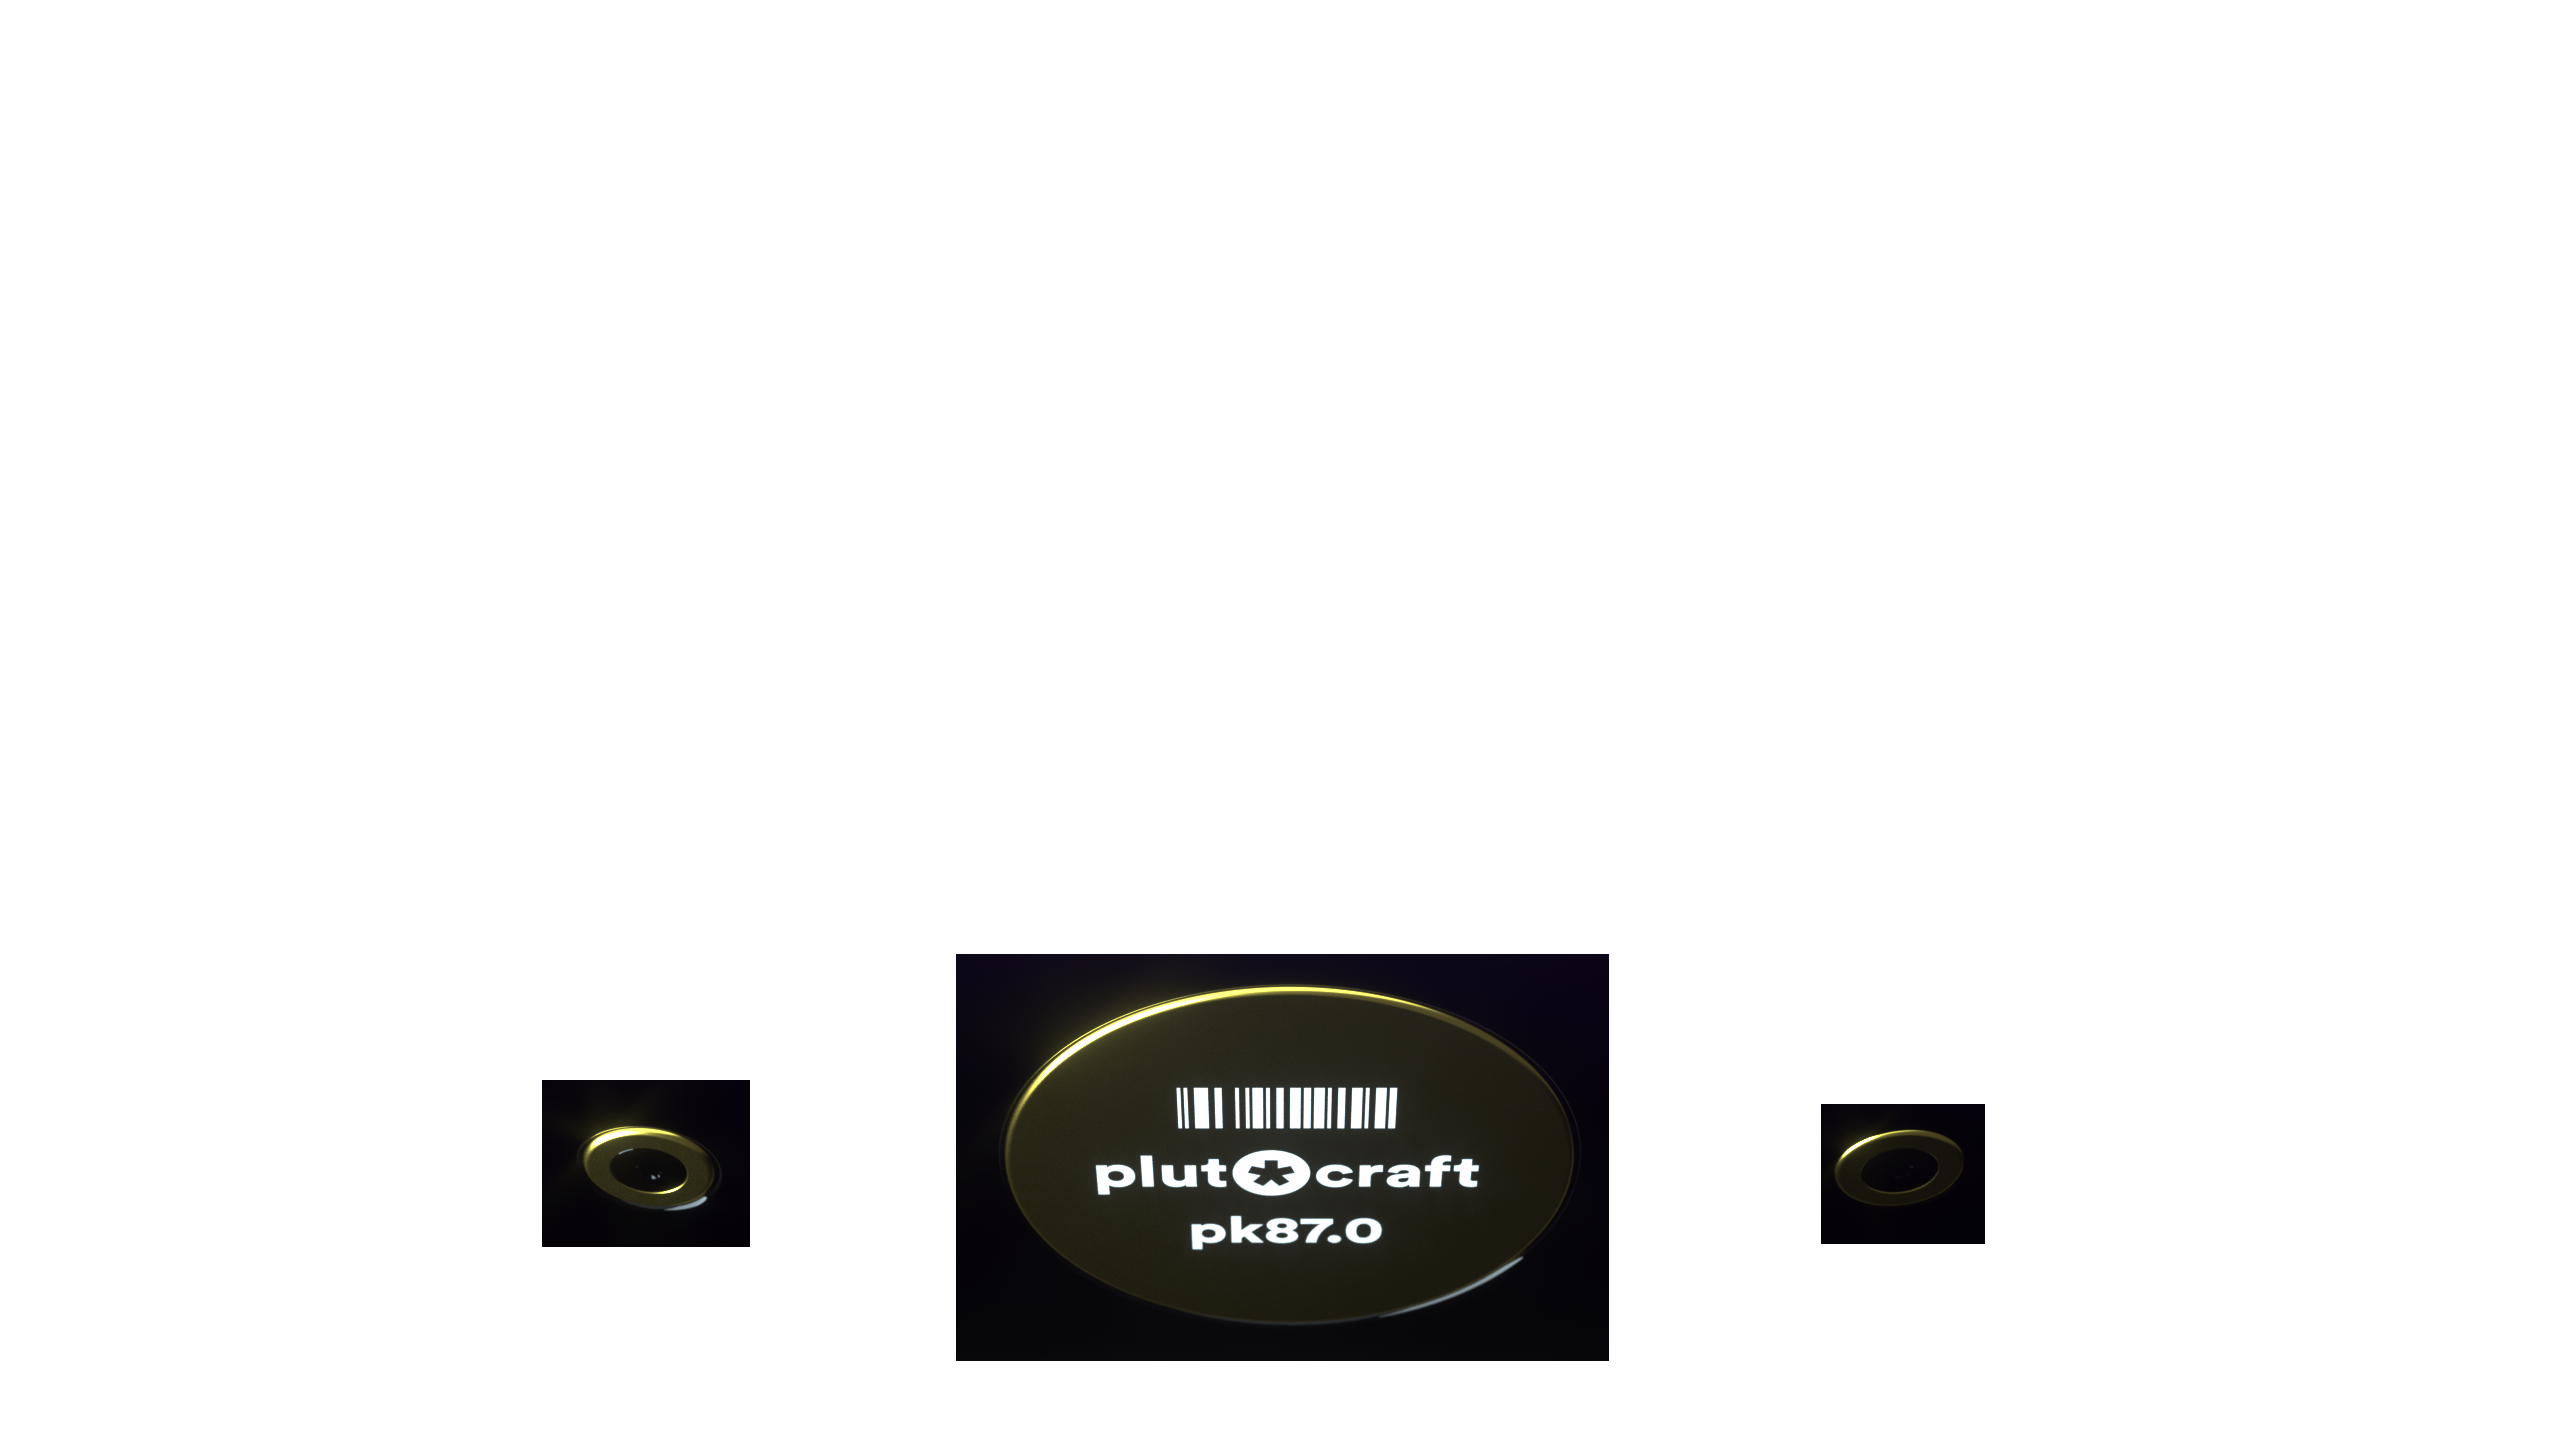
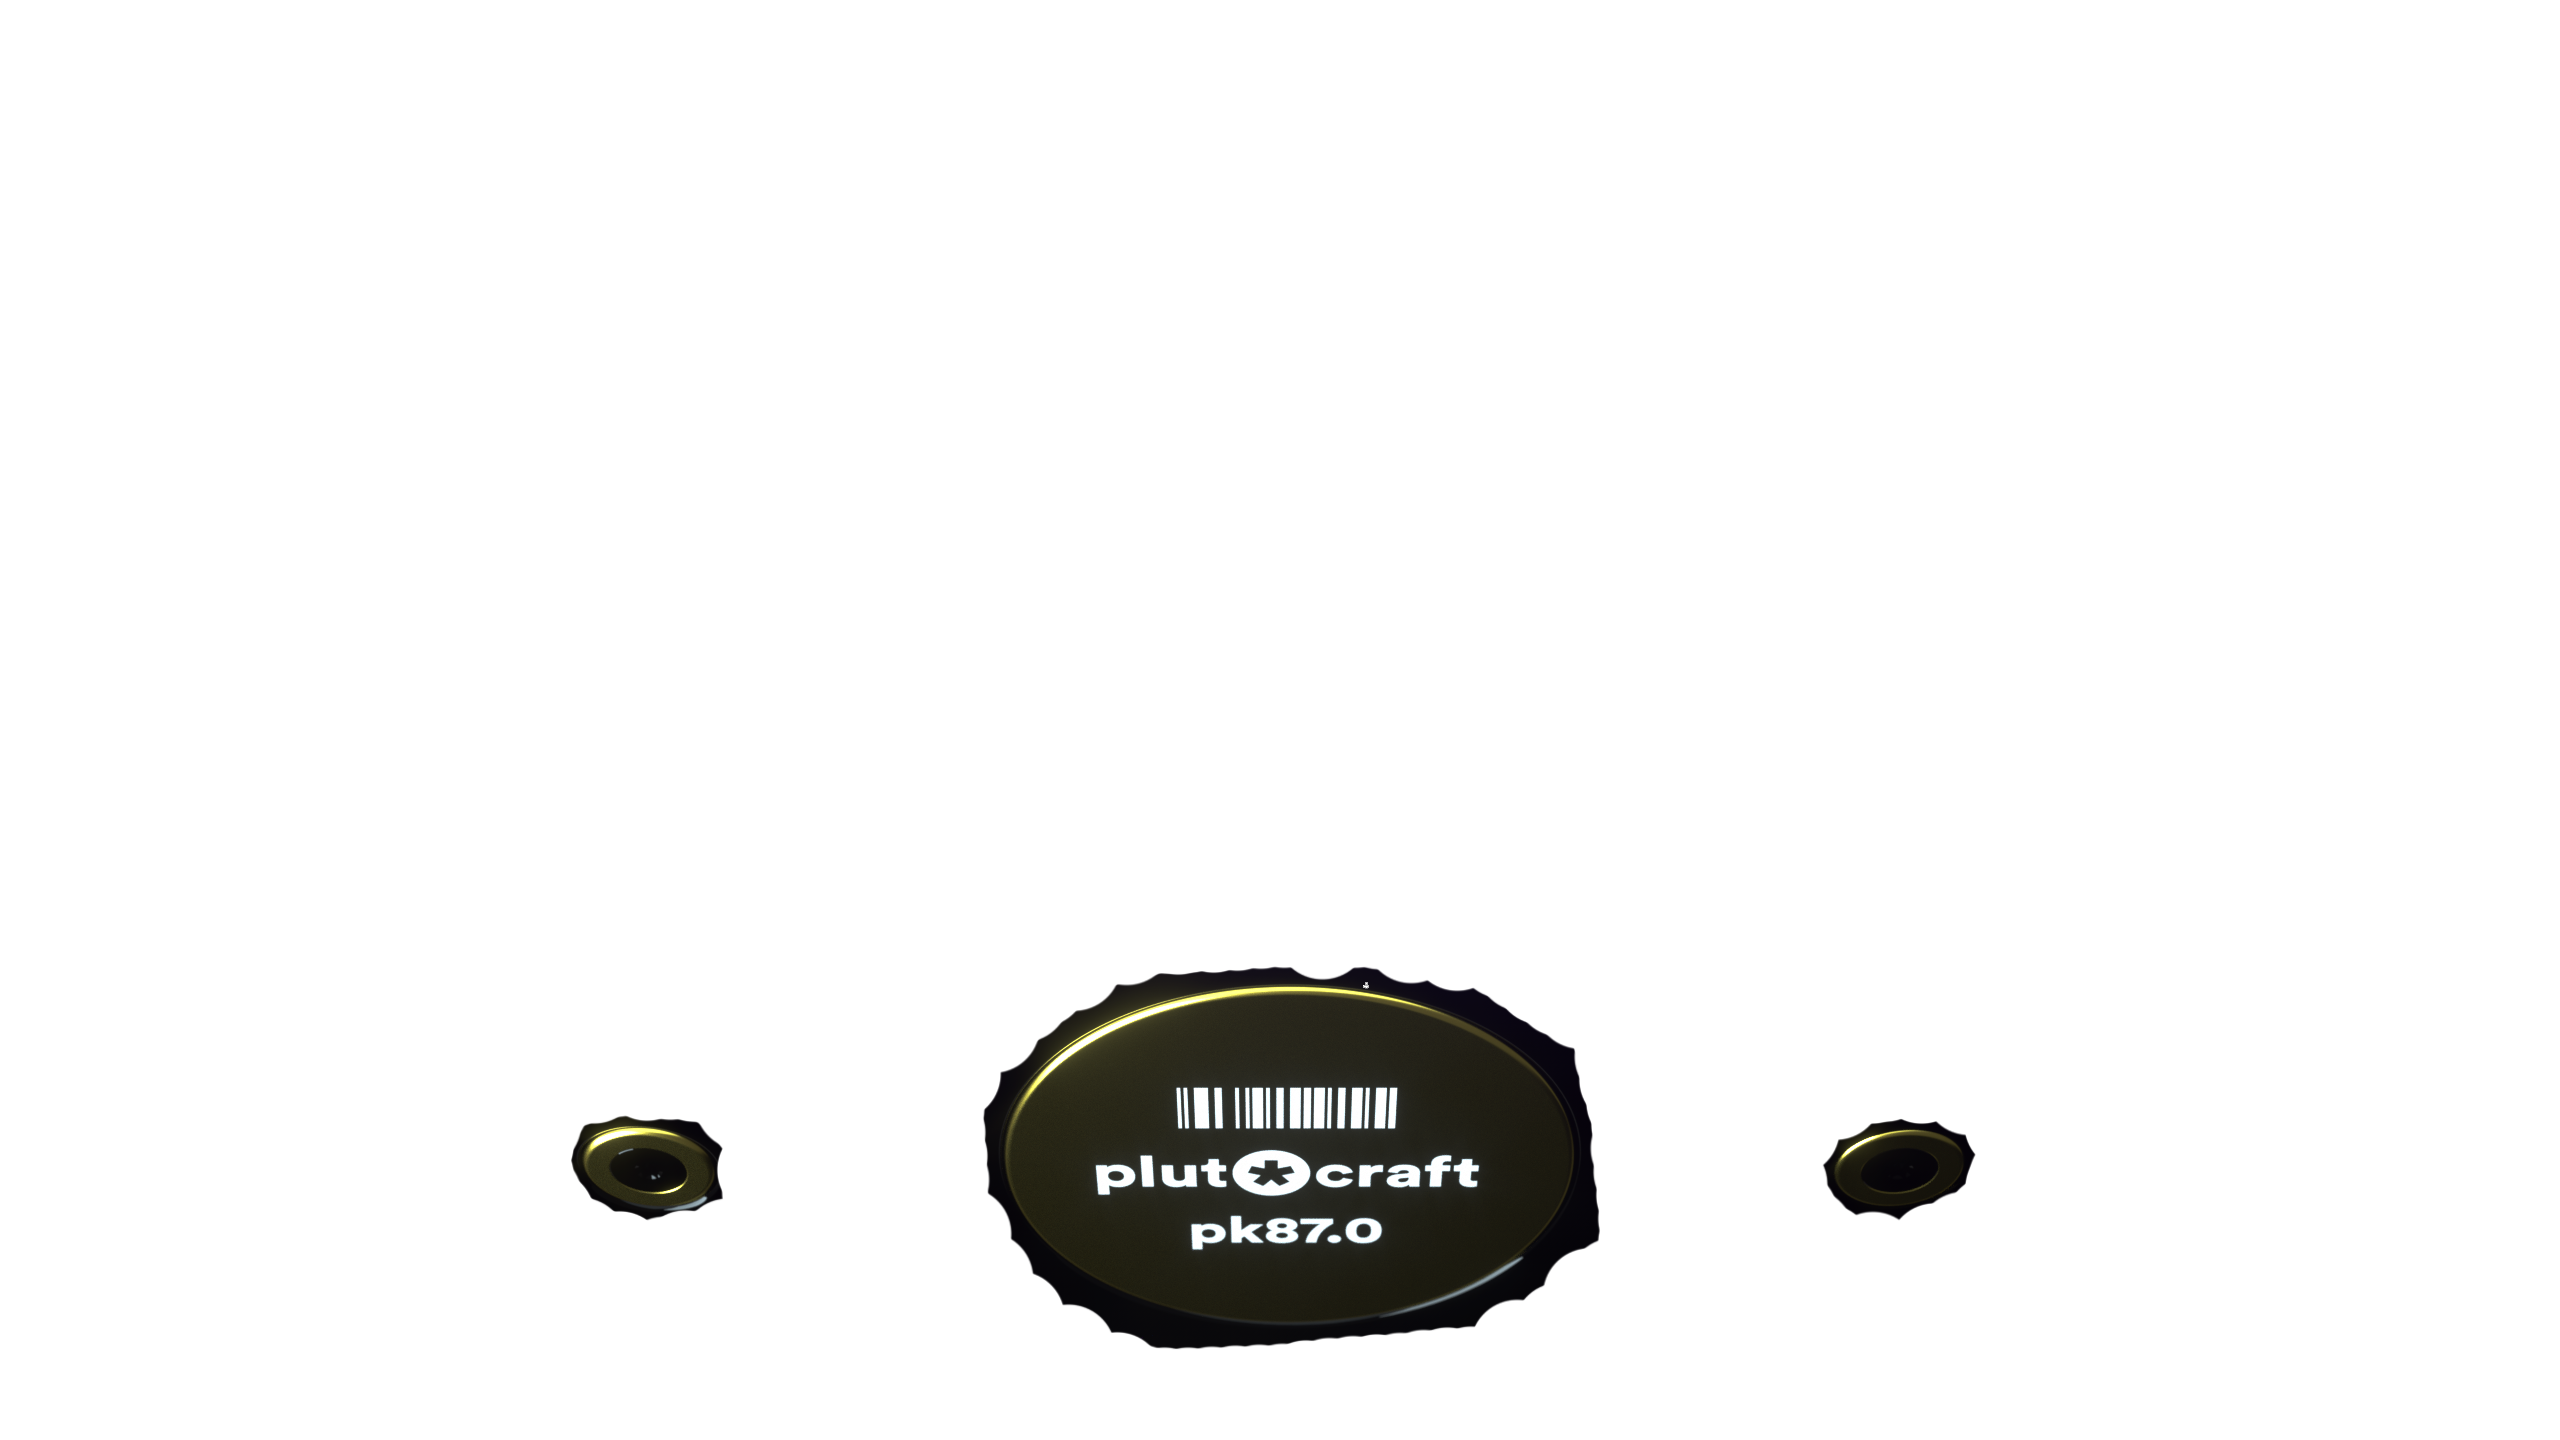
more hacks

Changed region(s): [[0.375, 0.6562, 0.6562, 0.9688], [0.1875, 0.75, 0.3125, 0.875], [0.6875, 0.75, 0.7812, 0.875]]

diff --git a/src/components/pk870.vue b/src/components/pk870.vue
@@ -12,9 +12,13 @@
 </div>
 <div class="p3">
   <div class="superheader">painstakingly engineered illumination</div>
-  <div class="brass"><img src="@/assets/pk87_3_2.png"/></div>
+  <img class="brass" src="@/assets/pk87_3_2.png"/>
   <img class="p3photo" src="@/assets/pk87_3.png"/>
   <div class="p3desc">three programmable gradient diffusers<br/>per key individually addressable fast-refresh lighting<br/>more than 16m colors per point</div>
+</div>
+<div class="p4">
+  <div class="superheader">8&deg; slant for optimal ergonomics</div>
+  <img class="p3photo" src="@/assets/slant.png"/>
 </div>
 </div>
 </template>
@@ -48,6 +52,7 @@ export default {
 .top {
   position: fixed;
   top: 0;
+  z-index: 10000;
   width: 100%;
   background: white;
   color: black;
@@ -126,6 +131,14 @@ export default {
   background-size: 100% auto;
   animation: 60s shift infinite;
 }
+.p4 {
+  height: 95vh;
+  display: flex;
+  flex-flow: column;
+  justify-content: center;
+  align-items: center;
+  color: white;
+}
 .p3photo {
   height: 50vh;
   margin-bottom: 5vh;
@@ -185,11 +198,10 @@ a {
   color: inherit;
 }
 .brass {
-  position: absolute;
-}
-.brass img {
   height: 50vh;
   margin-bottom: 5vh;
+  position: absolute;
+  margin-top: -1.9vh;
   animation: shiftinv 60s infinite;
 }
 </style>
